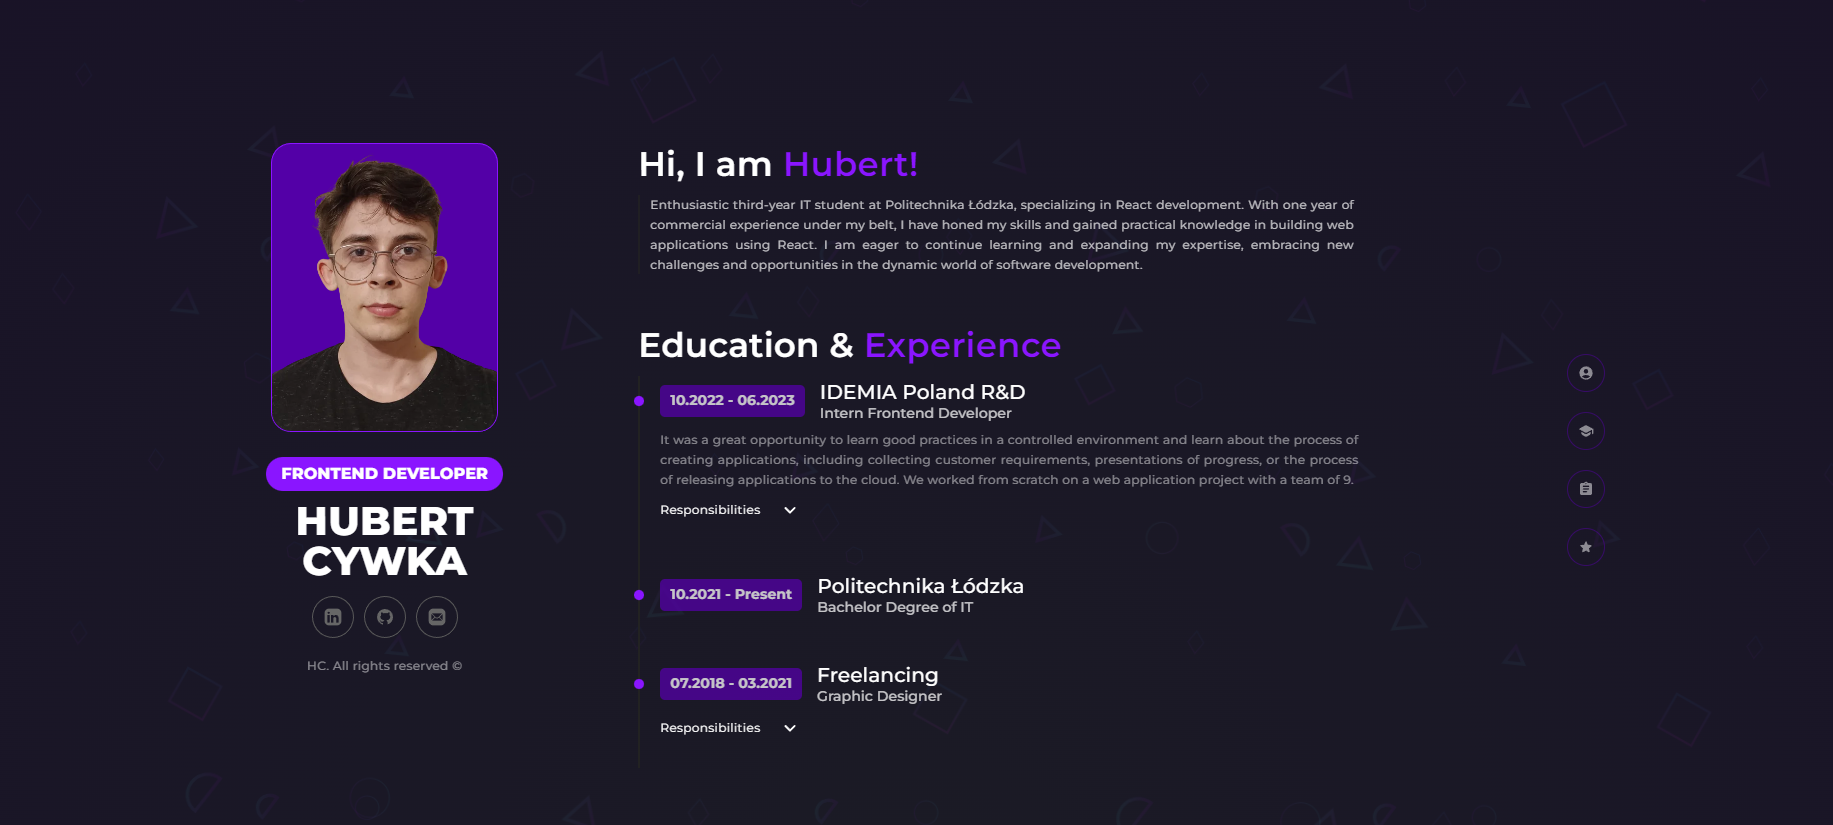
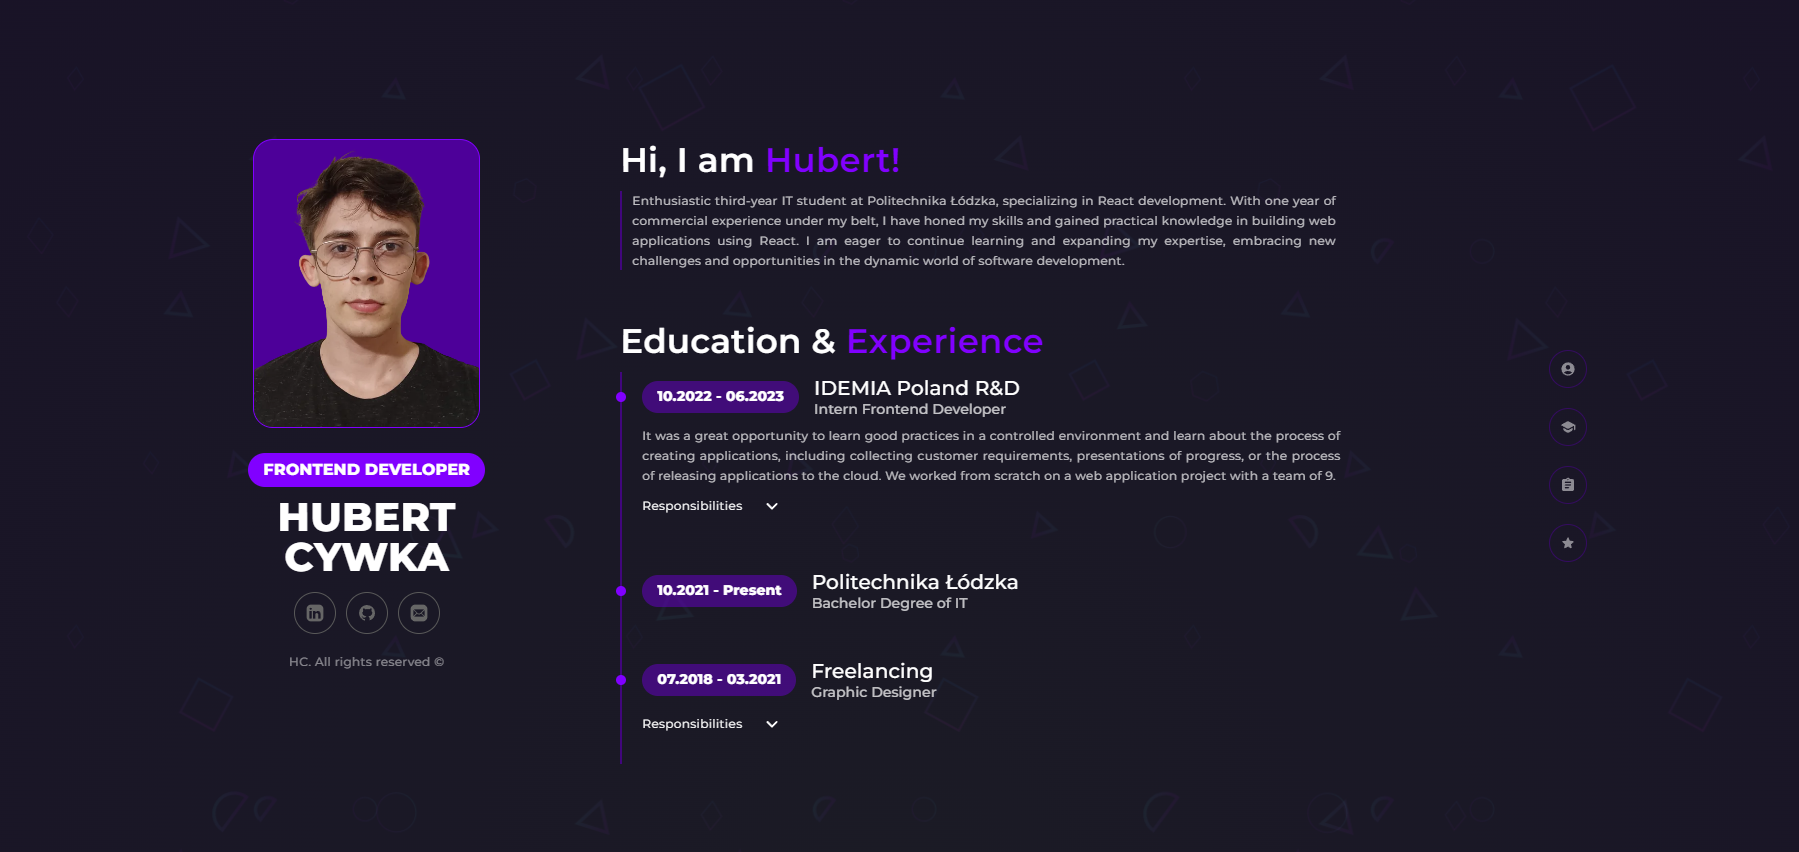
P-35: Experience section styling tweaks

diff --git a/src/components/content/experience/experience-list/experience-info/ExperienceInfo.scss b/src/components/content/experience/experience-list/experience-info/ExperienceInfo.scss
@@ -19,15 +19,14 @@
     gap: $spacing-l;
 
     .date {
-      font-weight: 700;
+      font-weight: 750;
       height: fit-content;
       transition: 0.5s;
       width: fit-content;
       display: block;
-      opacity: 0.75;
-      border-radius: 5px;
-      padding: $spacing-s $spacing-standard;
-      background: $purple-darker;
+      border-radius: 50px;
+      padding: $spacing-s $spacing-l;
+      background: rgba($purple, 0.5);
     }
 
     .company-name {
@@ -40,7 +39,7 @@
   }
 
   .description {
-    opacity: 0.5;
+    opacity: 0.75;
     margin-top: $spacing-s;
     text-align: justify;
     display: block;

diff --git a/src/components/content/skills/skills-container/SkillsContainer.scss b/src/components/content/skills/skills-container/SkillsContainer.scss
@@ -22,7 +22,7 @@
     .skills-category-header {
       text-align: center;
       padding: $spacing-s $spacing-xl;
-      border-radius: 10px;
+      border-radius: 50px;
       box-sizing: border-box;
       width: 100%;
       font-weight: 900;

diff --git a/src/styles/constants.scss b/src/styles/constants.scss
@@ -2,9 +2,9 @@
 
 $md-breakpoint: 900px;
 
-$purple-lighter: #8a15ff;
 $purple: #6700cc;
-$purple-darker: #5300a7;
+$purple-lighter: lighten($purple, 10%);
+$purple-darker: darken($purple, 10%);
 $gray: #222222;
 
 $standard-font-size: 1rem;

diff --git a/src/components/content/experience/experience-list/ExperienceContainer.scss b/src/components/content/experience/experience-list/ExperienceContainer.scss
@@ -4,7 +4,7 @@
   position: relative;
   display: flex;
   flex-direction: column;
-  border-left: 2px solid $gray;
+  border-left: 2px solid rgba($purple-darker, 0.75);
   padding-left: $spacing-xl;
   gap: $spacing-xl;
 

diff --git a/src/components/content/description/Description.scss b/src/components/content/description/Description.scss
@@ -10,7 +10,7 @@
     opacity: 0.75;
     text-align: justify;
     display: block;
-    border-left: 2px solid $gray;
+    border-left: 2px solid $purple-darker;
     padding-left: $spacing-standard;
   }
 }
